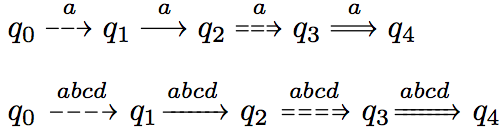
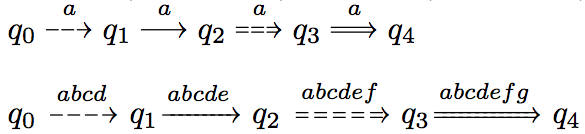
Improved example

diff --git a/README.md b/README.md
@@ -13,7 +13,7 @@ Usage and Example:
 After loading the mts-arrows.tec in your preable, writing:
 
  <pre>$q_0 \may{a} q_1 \must{a} q_2 \mayw{a} q_3 \mustw{a} q_4$</pre>
- <pre>$q_0 \lmay{abcd} q_1 \lmust{abcd} q_2 \lmayw{abcd} q_3 \lmustw{abcd} q_4$</pre>
+ <pre>$q_0 \lmay{abcd} q_1 \lmust{abcde} q_2 \lmayw{abcdef} q_3 \lmustw{abcdefg} q_4$</pre>
 
 in your document will result in:
 
